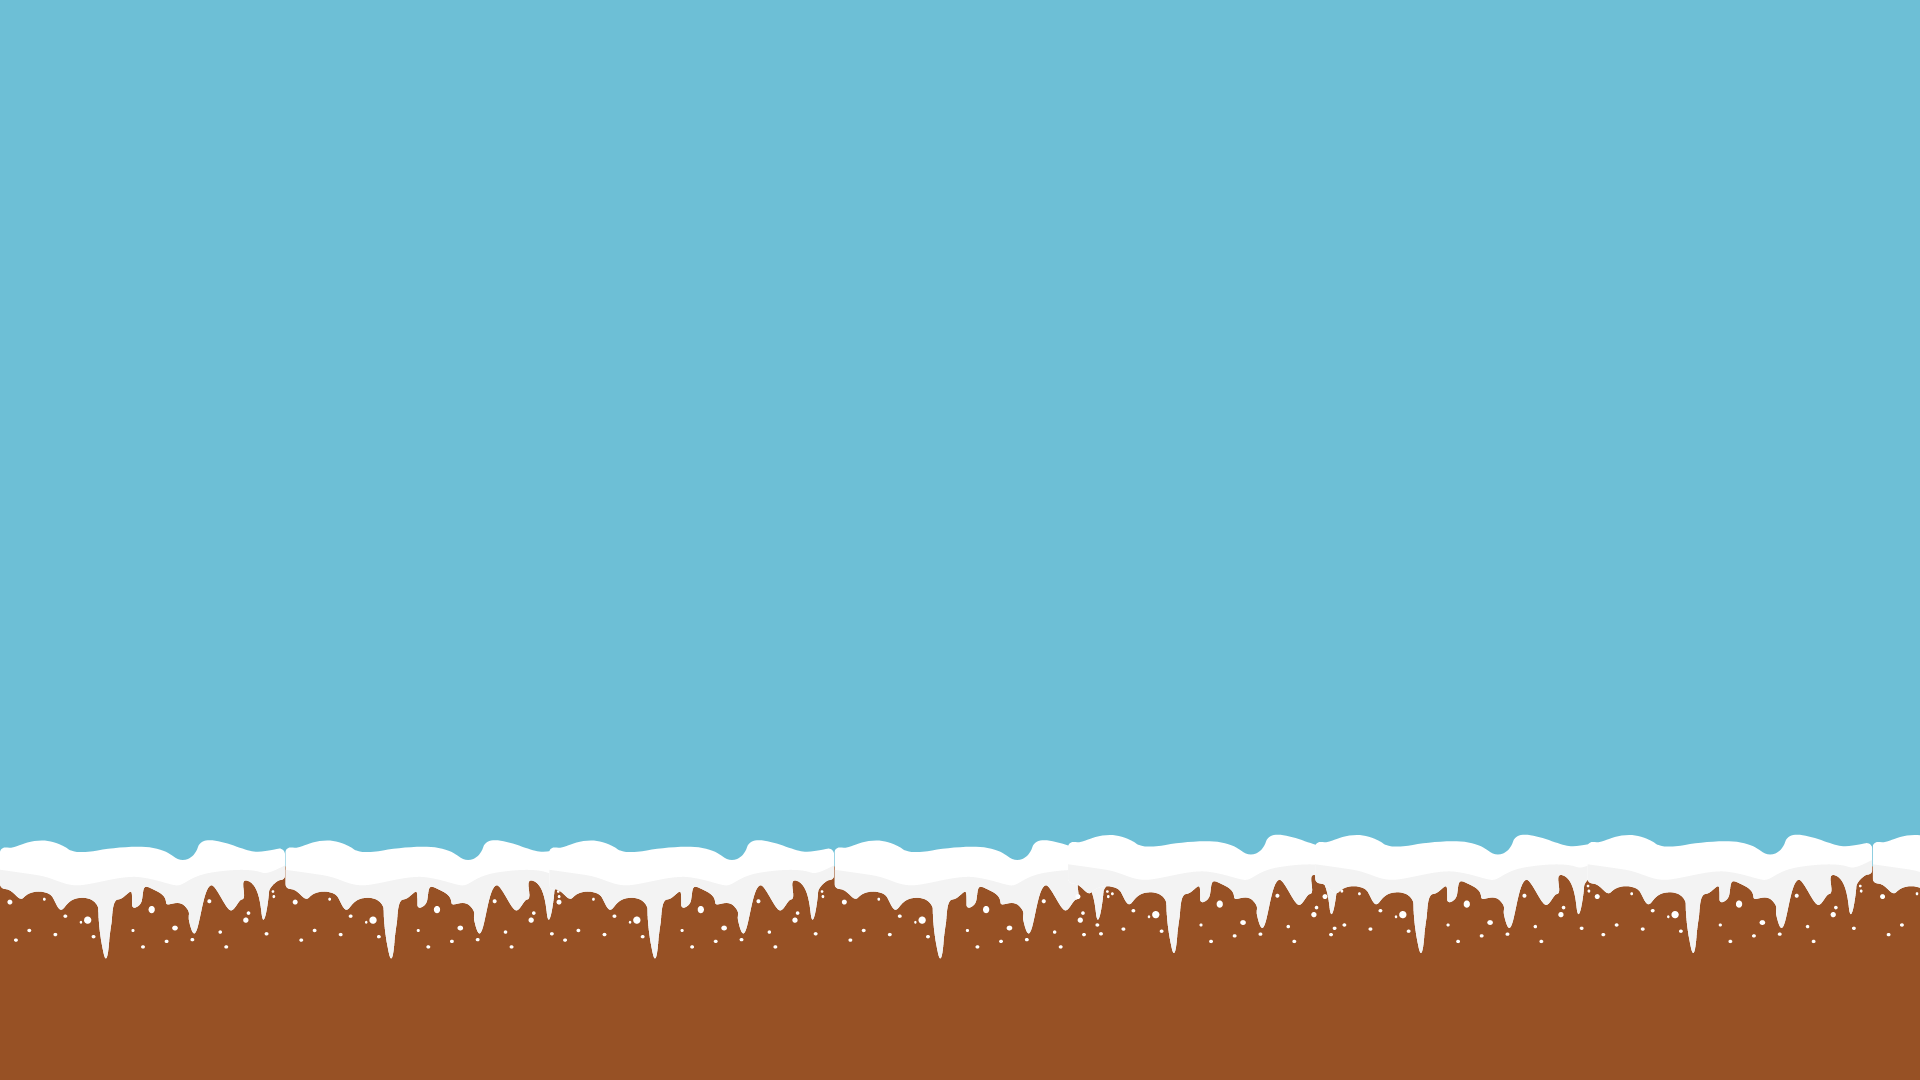
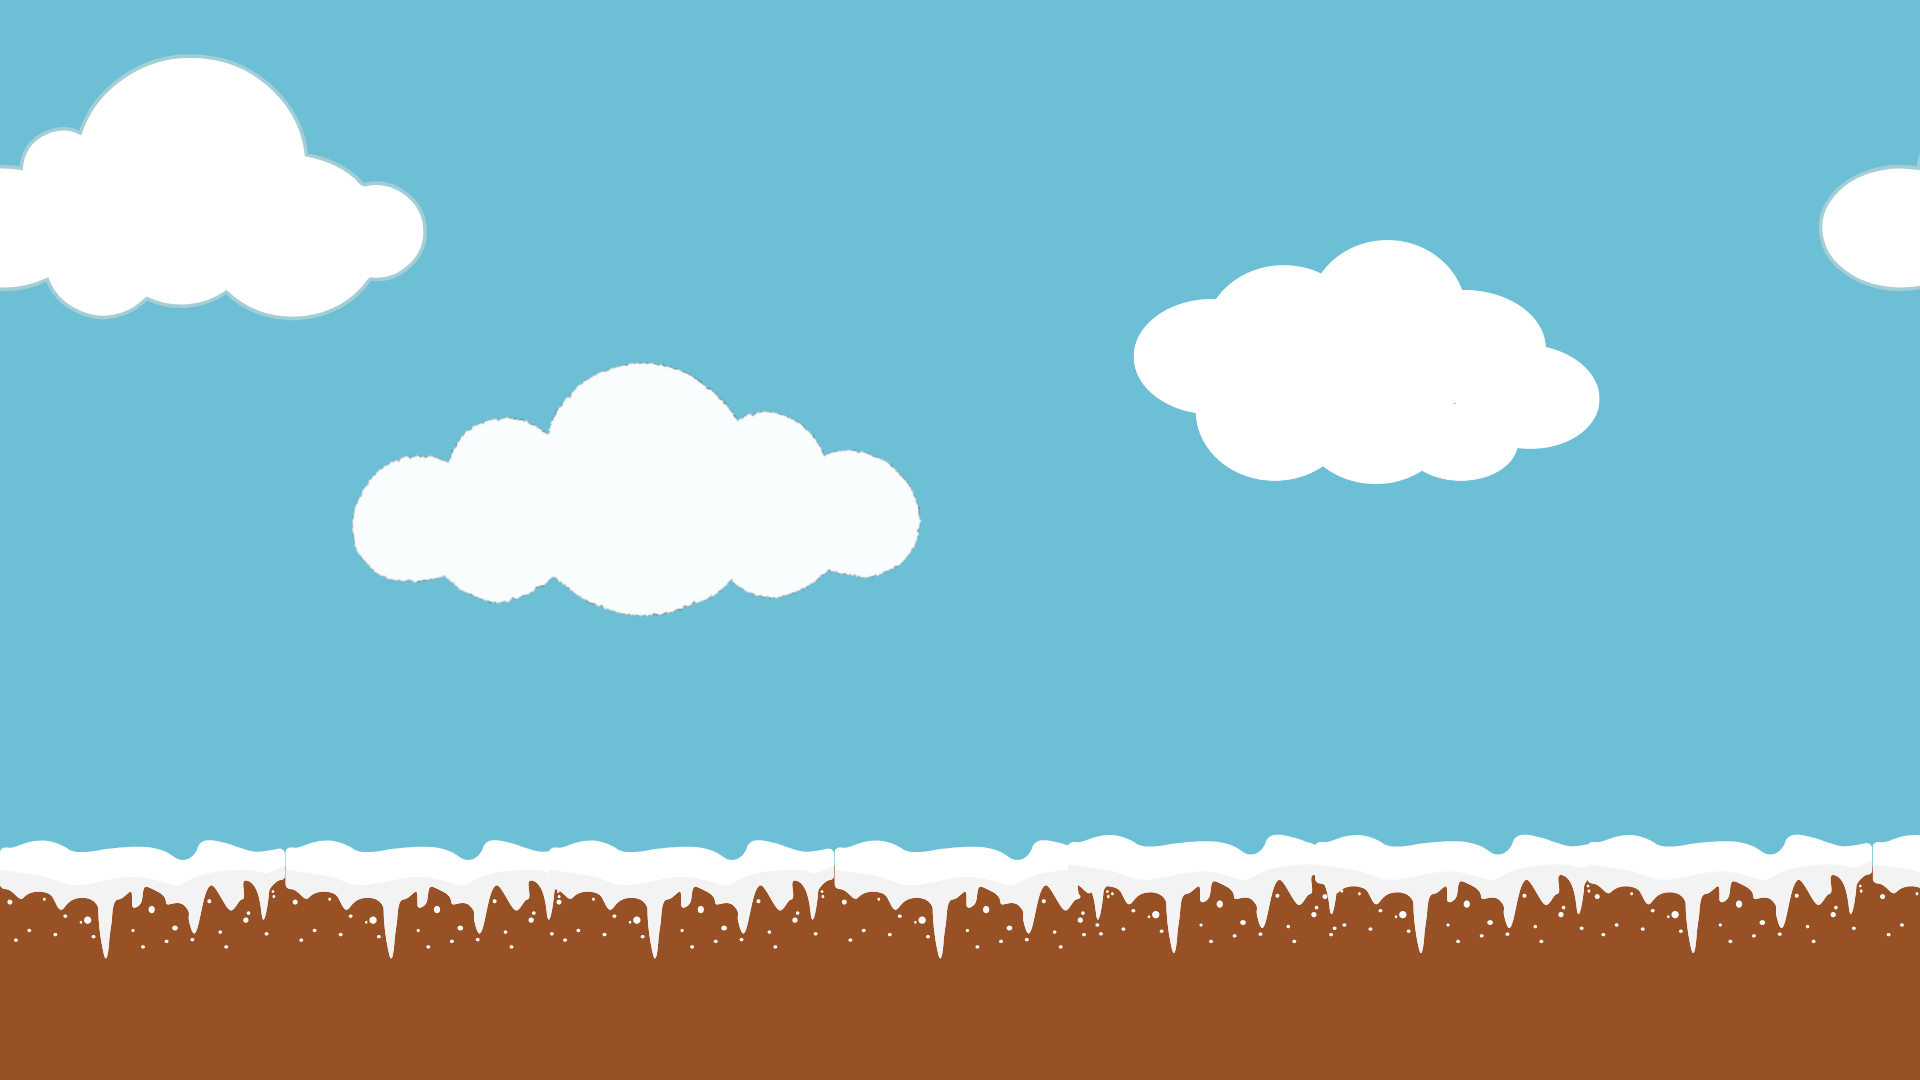
adicionei nuvens e tela anda conforme boneco anda

diff --git a/jogo/jogo_GM.py b/jogo/jogo_GM.py
@@ -12,17 +12,21 @@ class Tela_Jogo():
         # self.monstro=Monstro(self.window)
         self.tiles=math.ceil(self.window.get_width()/self.fundo.get_width())+1
         self.scroll=0
+        self.andando=False
         
 
     def atualiza(self):
-        if self.player.update() == -1:
+        player=self.player.update()
+        if player == -1:
             return -1
+        self.andando=player
         return self  
     
     def desenha(self):
-        if abs(self.scroll)>self.fundo.get_width():
-            self.scroll=0
-        else: self.scroll-=5
+        if self.andando:
+            if abs(self.scroll)>self.fundo.get_width():
+                self.scroll=0
+            else: self.scroll-=10
         for i in range(self.tiles):
             self.window.blit(self.fundo,(i*self.fundo.get_width()+self.scroll,0))
         self.player.desenha()

diff --git a/jogo/assets_jogo.py b/jogo/assets_jogo.py
@@ -14,7 +14,7 @@ class Player(pygame.sprite.Sprite):
         self.radius=(self.h)/2
         self.last_updated=0
         self.rect=self.image.get_rect()
-        self.rect.x=0
+        self.rect.x=50
         self.rect.y=540
         self.clock=pygame.time.Clock()
         self.FPS=10
@@ -29,6 +29,8 @@ class Player(pygame.sprite.Sprite):
             self.indice_img=(self.indice_img+1)%len(self.images_animation)
             image=pygame.image.load(self.images_animation[self.indice_img])
             self.image=pygame.transform.scale(image, (60,60))
+            return True 
+        return False
             
     def desenha(self):
         self.window.blit(self.image,self.rect)
